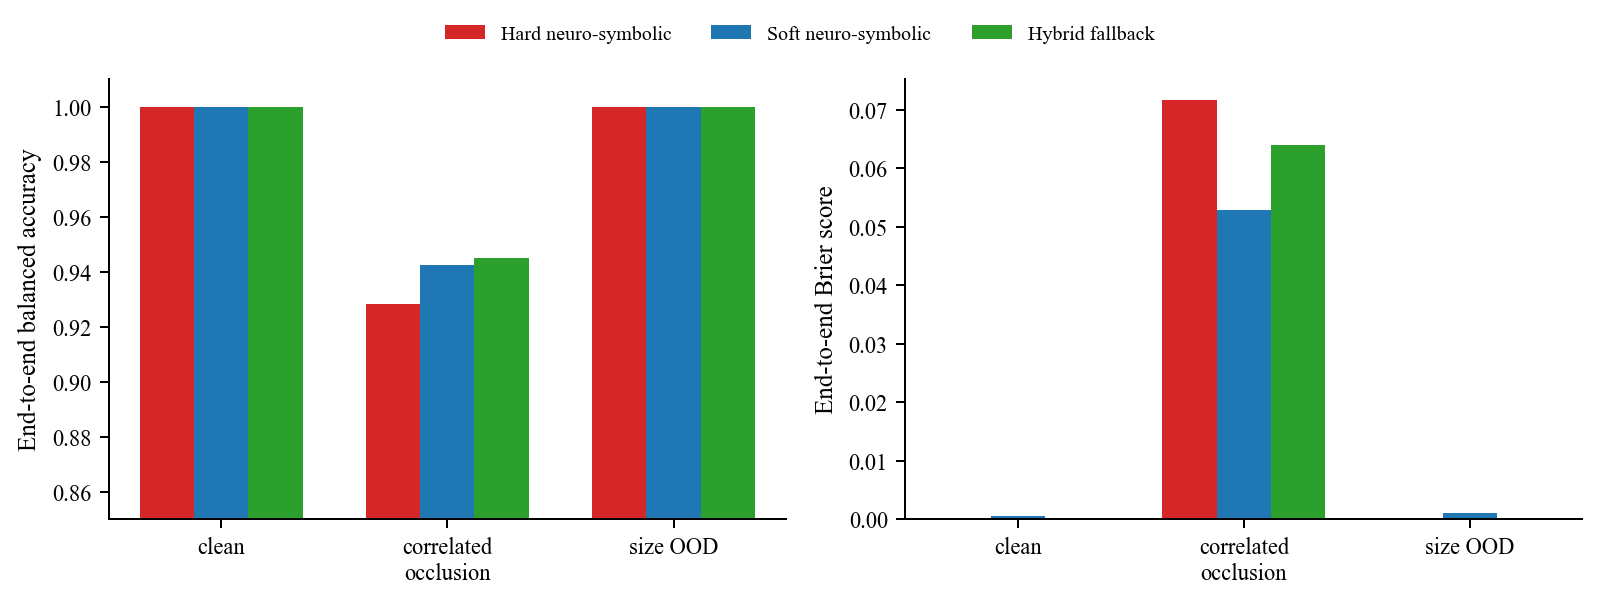
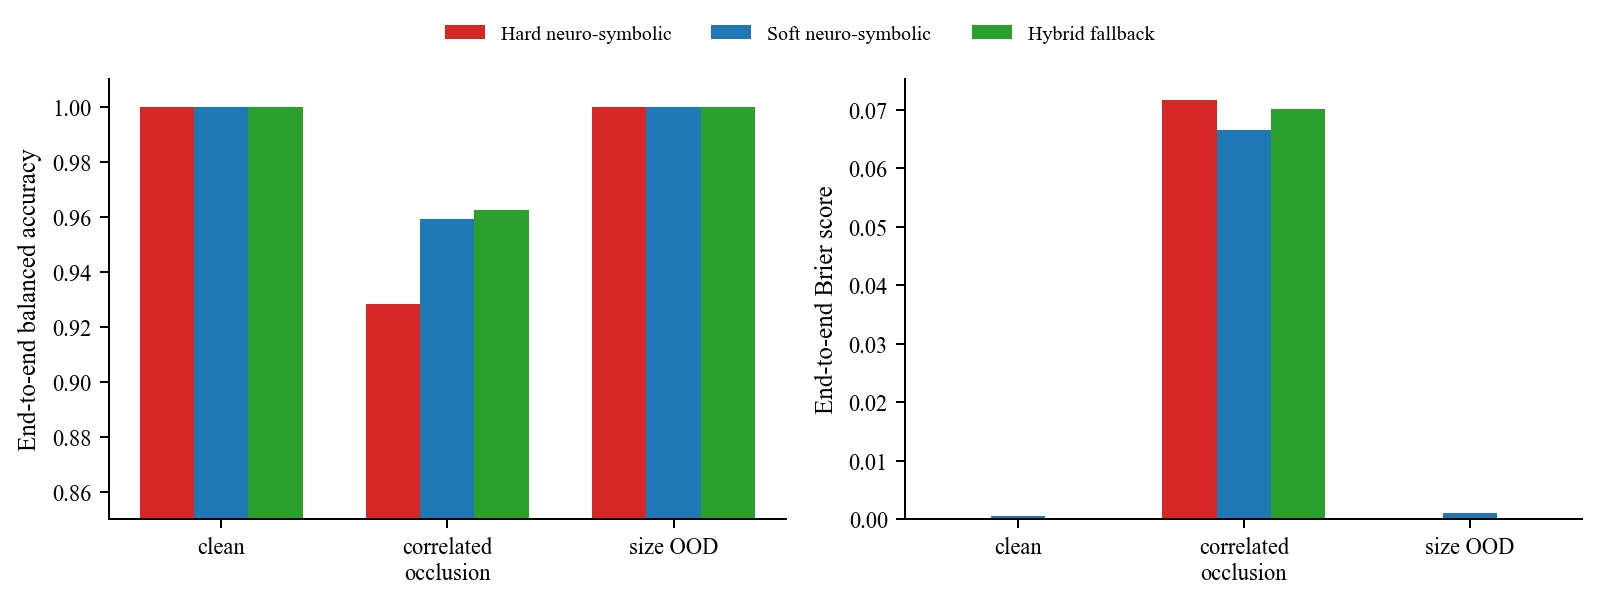
Finalize visual neurosymbolic benchmark evidence

Changed region(s): [[0.75, 0.1794, 0.8438, 0.3588], [0.25, 0.3289, 0.3438, 0.4485]]

diff --git a/reports/evidence_report_zh.md b/reports/evidence_report_zh.md
@@ -176,7 +176,7 @@ perception numeric engine
 ```text
 rendered RGB grid image
   -> patch MLP encoder
-  -> temperature-calibrated free/wall/source/target predicates
+  -> temperature-scaled free/wall/source/target predicates
   -> learned soft edge gate -> argmax hardened gate
   -> hard BFS / soft max-product reachability
   -> confidence-routed fallback
@@ -190,13 +190,15 @@ rendered RGB grid image
 | 条件 | Hard | Soft | Hybrid fallback | Cell grounding | Hybrid fallback rate |
 |---|---:|---:|---:|---:|---:|
 | clean 8×8 | 1.000 ± 0.000 | 1.000 ± 0.000 | 1.000 ± 0.000 | 1.000 | 0.000 |
-| correlated occlusion 8×8 | 0.928 ± 0.024 | 0.943 ± 0.022 | **0.945 ± 0.020** | 0.980 | 0.133 |
+| correlated occlusion 8×8 | 0.928 ± 0.023 | 0.959 ± 0.019 | **0.963 ± 0.016** | 0.980 | 0.131 |
 | size OOD 10×10 | 1.000 ± 0.000 | 1.000 ± 0.000 | 1.000 ± 0.000 | 1.000 | 0.000 |
 
 ![端到端 gridworld](../figures/end_to_end_gridworld.png)
 
-相关遮挡下，hard pipeline 的 Brier 为 `0.0717 ± 0.0243`，soft pipeline 为 `0.0528 ± 0.0183`，hybrid 为 `0.0639 ± 0.0189`。Hybrid 的任务准确率最高，而 soft 的 max-product path score 在该测试集上的 Brier 更低；该 score 不是精确 reachability probability，不能据此宣称一般概率校准成立。相关遮挡下 source localization 为 `0.989 ± 0.009`、target localization 为 `1.000`；任务错误与局部 wall/free grounding 和路径连通性放大一致。
+相关遮挡下，hard pipeline 的 Brier 为 `0.0717 ± 0.0227`，soft pipeline 为 `0.0665 ± 0.0221`，hybrid 为 `0.0702 ± 0.0227`。Hybrid 的任务准确率最高，而 soft 的 max-product path score 在该测试集上的 Brier 更低；该 score 不是精确 reachability probability，不能据此宣称一般概率校准成立。相关遮挡下 cell grounding ECE 为 `0.0182 ± 0.0021`，source localization 为 `0.983 ± 0.009`、target localization 为 `0.999 ± 0.001`；任务错误与局部 wall/free grounding 和路径连通性放大一致。三个种子的最优温度均达到候选网格下界 `0.08`，因此这里只能证明温度缩放后在这些测试条件下 ECE 很低，不能证明校准超参数已经被充分识别。
 
-8×8 clean 条件下，批量 encoder 时间约 `0.030 ms/image`，Python solver 中位数约 `0.14 ms/query`；10×10 分别约 `0.047 ms/image` 和 `0.19 ms/query`。这些是 NumPy 原型测量，不是神经网络加速器或硬件 PPA。
+延迟拆分避免把同一总时间复制给不同求解器。在 8×8 clean 条件下，编码器为 `0.029 ms/image`，hard、soft、hybrid 求解器分别为 `0.034/0.102/0.034 ms/image`；在 10×10 size OOD 下分别为编码器 `0.047 ms/image`、求解器 `0.052/0.136/0.052 ms/image`。这说明当前 NumPy 原型里 soft 路径传播比 hard BFS 慢约 3 倍；本实验支持的是鲁棒性收益而非 soft 计算加速。
+
+这些延迟是 NumPy 原型测量，不是神经网络加速器或硬件 PPA；不同方法共享的编码器成本必须与各自求解器成本相加后再比较端到端延迟。
 
 这项实验完成了**原始像素输入到符号任务输出的推理闭环**，但仍有三条明确边界：encoder 与 gate 使用中间标签监督，而不是只用最终任务损失训练；四邻接候选拓扑由程序给出；learned gate 只导出 NumPy hard operator，尚未自动生成 packed C、AIG 或 RTL。模型权重与 gate IR 保存在 `results/gridworld_models/`，运行元数据包含源码哈希和运行开始时的 Git 状态。

diff --git a/README.md b/README.md
@@ -13,7 +13,7 @@ The main result is in [reports/evidence_report_zh.md](reports/evidence_report_zh
 - Grounding bit-flip experiments contrasting hard decisions with uncertainty-preserving probability evaluation.
 - A fixed-wiring differentiable gate proxy with argmax hardening, plus an end-to-end `learned gate + BFS` audit (`results/learned_gate_results.csv` and `results/learned_gate_bfs_results.csv`).
 - State-transition loop versus fixed unrolling on cyclic reachability, a bounded monotone planning frontier, random-LUT/parity scaling, and exact probability-marginalization controls (`results/state_transition_results.csv`, `results/planning_frontier_results.csv`, `results/noncompressible_scaling_results.csv`, and `results/probability_marginalization_results.csv`).
-- A component-supervised visual gridworld model: rendered RGB pixels → calibrated neural cell predicates → learned soft/hardened edge gate → hard BFS or soft max-product reachability → task verifier. Three full-run seeds cover clean, correlated occlusion, and 10×10 size OOD conditions.
+- A component-supervised visual gridworld model: rendered RGB pixels → temperature-scaled neural cell predicates → learned soft/hardened edge gate → hard BFS or soft max-product reachability → task verifier. Three full-run seeds cover clean, correlated occlusion, and 10×10 size OOD conditions; grounding ECE is reported rather than assuming calibration.
 
 ## Reproduce
 
